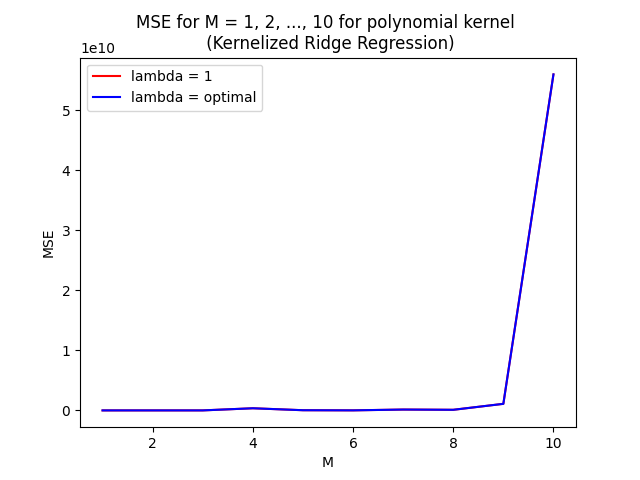
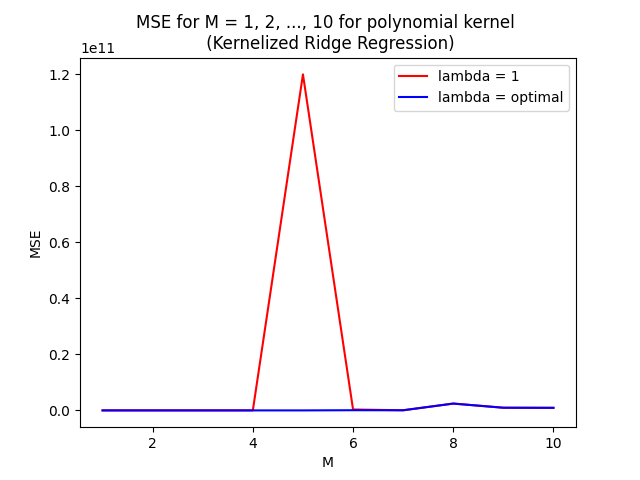
2nd part of homework almost done

diff --git a/homework-05/hw_kernels.py b/homework-05/hw_kernels.py
@@ -187,8 +187,8 @@ class SVR:
 
         vec_q = []
         for i in range(n_samples):
-            vec_q.append(self.epsilon - y[i])
-            vec_q.append(self.epsilon + y[i])
+            vec_q.append(float(self.epsilon - y[i]))
+            vec_q.append(float(self.epsilon + y[i]))
 
         P = matrix(matrix_p)
         q = matrix(vec_q)
@@ -474,6 +474,13 @@ def optimal_lambda(kernel, model, X, y, k=5):
         mses.append(cross_validate_mse(kernel, model, X, y, lambda_, k=k))
     return lambdas[np.argmin(mses)]
 
+def normalize(X: np.array) -> np.array:
+    """
+    Normalize the dataset
+    """
+    X = (X - np.mean(X)) / np.std(X)
+    return X
+
 # script functions
 
 def sine_SVR_polynomial(X, y):
@@ -603,13 +610,14 @@ def krr_and_polynomial_housing(test_X, test_y, train_X, train_y):
 
     for m in range(1, 11):
         
-        model = KernelizedRidgeRegression(kernel=Polynomial(m, 0.05), 
+        model = KernelizedRidgeRegression(kernel=Polynomial(m, 0.01), 
                                           lambda_=1)
         model = model.fit(train_X, train_y)
         mse = calculate_mse(test_X, test_y, model)
         
-        opt_lambda = optimal_lambda(Polynomial(m, 0.05), "KRR", train_X, train_y)
-        model2 = KernelizedRidgeRegression(kernel=Polynomial(m, 0.05),
+        opt_lambda = optimal_lambda(Polynomial(m, 0.01), "KRR", train_X, train_y)
+
+        model2 = KernelizedRidgeRegression(kernel=Polynomial(m, 0.01),
                                            lambda_=opt_lambda)
         model2 = model2.fit(train_X, train_y)
         mse2 = calculate_mse(test_X, test_y, model2)
@@ -617,7 +625,6 @@ def krr_and_polynomial_housing(test_X, test_y, train_X, train_y):
         mses.append([m, mse, mse2])
 
     mses = np.array(mses)
-    print(mses)
 
     # plot
     plt.figure()
@@ -635,18 +642,18 @@ def svr_and_polynomial_housing(test_X, test_y, train_X, train_y):
 
     for m in range(1, 11):
         
-        model = SVR(kernel=Polynomial(m), 
+        model = SVR(kernel=Polynomial(m, 0.00001), 
                            lambda_=1)
         model = model.fit(train_X, train_y)
         mse = calculate_mse(test_X, test_y, model)
         
-        opt_lambda = optimal_lambda(Polynomial(m, 1.4), "SVR", train_X, train_y)
-        print(opt_lambda)
-        model2 = SVR(kernel=Polynomial(m),
+        opt_lambda = optimal_lambda(Polynomial(m, 0.00001), "SVR", train_X, train_y)
+        
+        model2 = SVR(kernel=Polynomial(m, 0.00001),
                      lambda_=opt_lambda)
         model2 = model2.fit(train_X, train_y)
         mse2 = calculate_mse(test_X, test_y, model2)
-
+        print(f'Works for m = {m}')
         mses.append([m, mse, mse2])
 
     mses = np.array(mses)
@@ -689,7 +696,8 @@ def krr_and_rbf_housing(test_X, test_y, train_X, train_y):
     plt.figure()
     plt.plot(mses[:, 0], mses[:, 1], label="lambda = 1", color="red")
     plt.plot(mses[:, 0], mses[:, 2], label="lambda = optimal", color="blue")
-    plt.xlabel("M")
+    plt.xlabel("sigma")
+    plt.xscale("log")
     plt.ylabel("MSE")
     plt.title("MSE for sigma = 0.001, ..., 1000 for rbf kernel \n (Kernelized Ridge Regression)")
     plt.legend() 
@@ -769,12 +777,13 @@ if __name__ == "__main__":
     # select the remaining 20% of rows using iloc
     test_y = y.iloc[n_rows:].to_numpy()
     test_X = X.iloc[n_rows:, :].to_numpy()
-
+    
     # perform the experiments
+    
     krr_and_polynomial_housing(test_X, test_y, train_X, train_y)
-      
+
     # svr_and_polynomial_housing(test_X, test_y, train_X, train_y)
-    # 
+     
     # krr_and_rbf_housing(test_X, test_y, train_X, train_y)
-    # 
+    
     # svr_and_rbf_housing(test_X, test_y, train_X, train_y)
